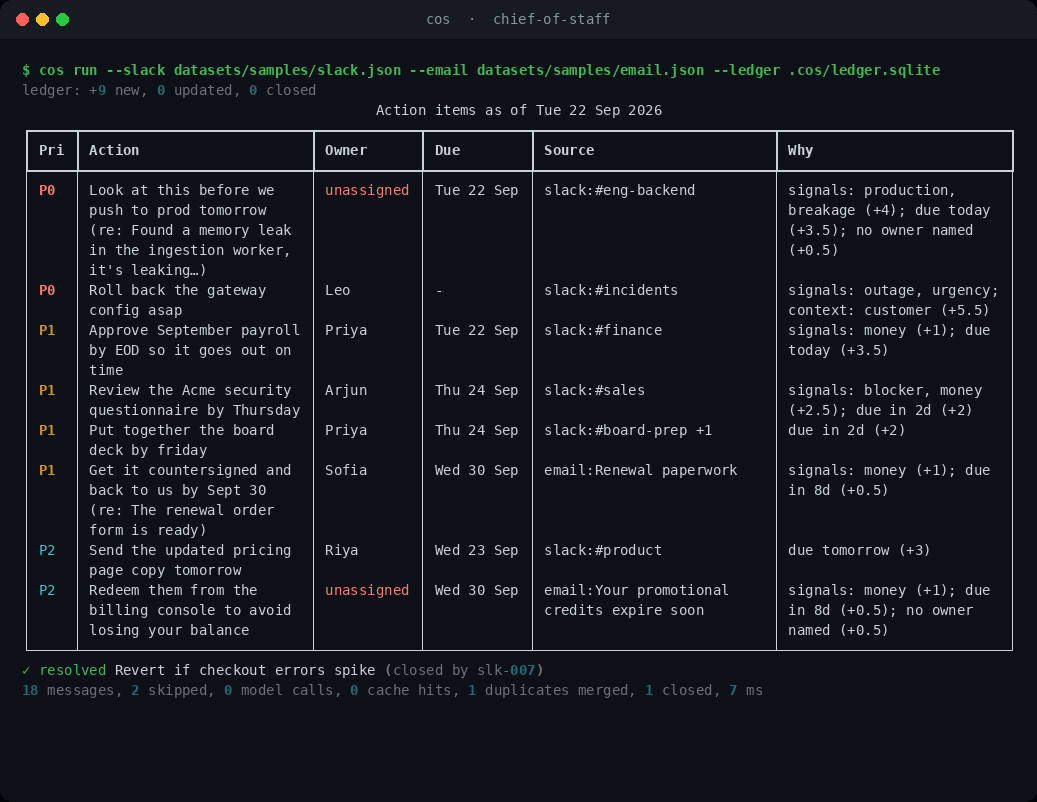
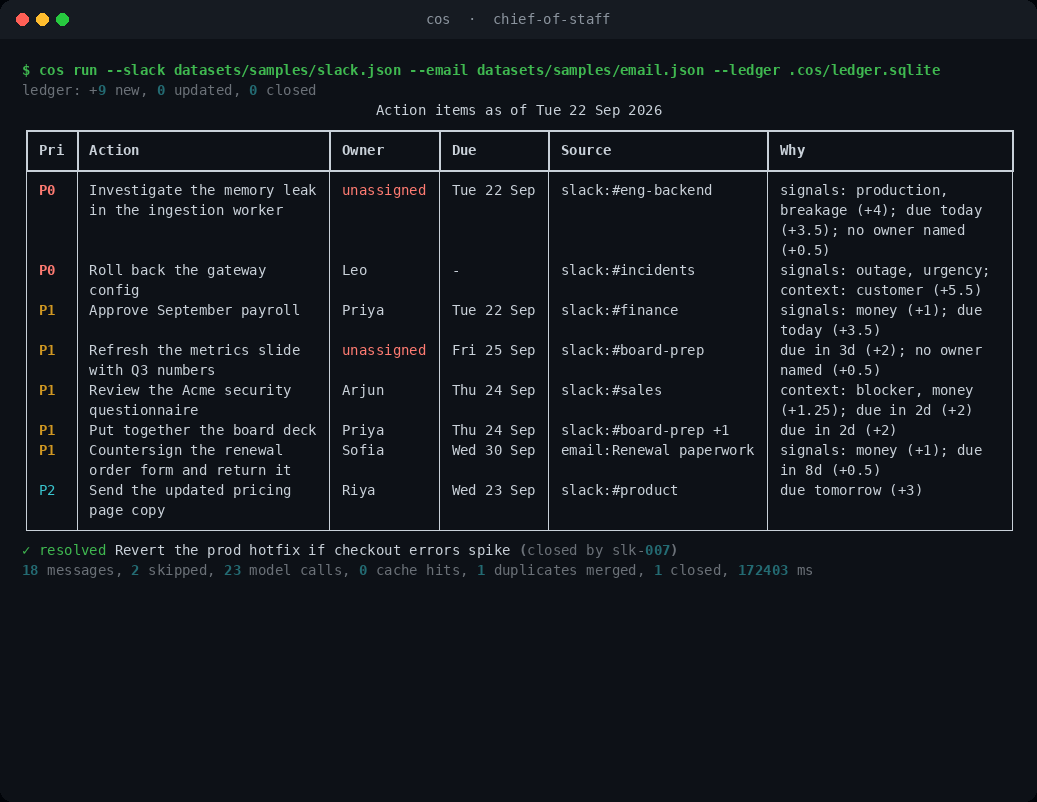
docs: link the live demo at the top of the README and refresh the demo assets
The GIF and screenshots are re-rendered from real runs of the current CLI
(python docs/render_assets.py).

diff --git a/README.md b/README.md
@@ -11,6 +11,8 @@
 ![Coverage](https://img.shields.io/badge/coverage-98%25-brightgreen)
 ![License](https://img.shields.io/badge/license-MIT-blue)
 
+**[Live demo](https://pavan-dangeti.github.io/Chief-of-Staff-AI/)**: the real output on a synthetic sample inbox, message by message.
+
 <img src="docs/images/demo.gif" alt="Terminal demo: cos run builds a prioritized digest, cos ledger show tracks items across runs, cos eval scores the extractor" width="900">
 
 </div>
@@ -50,7 +52,7 @@ source message. It tracks items across runs until a later message reports them d
 | Provider outage | Circuit breaker cuts time to fallback from **44.8 s to 2.2 s** | [`reports/production-run.md`](reports/production-run.md) |
 | Latency, 100 messages at 400 ms per call | **190 s → 3.1 s** cold, **0.16 s** from cache | [`reports/benchmark.md`](reports/benchmark.md) |
 | HTTP API, 32 concurrent clients | p50 **59 ms**, **500 req/s** from cache; zero errors | [`reports/production-run.md`](reports/production-run.md) |
-| Code quality | 311 tests, 98% line and branch coverage, `mypy --strict`, `ruff` | CI |
+| Code quality | 313 tests, 98% line and branch coverage, `mypy --strict`, `ruff` | CI |
 
 The Anthropic backend is implemented and contract-tested against the SDK, but it was **not
 evaluated**: no Anthropic API access was available for this project, so no Claude numbers are
@@ -337,7 +339,7 @@ src/chief_of_staff/
 └── cli.py · api.py      interfaces
 benchmarks/              latency benchmark, provider simulator, production-style run, latency timeline
 datasets/                labeled splits, labeling guidelines, demo inbox
-docs/                    README assets rendered from real CLI runs
+docs/                    design notes, pilot guide, demo site builder, assets rendered from real runs
 tests/                   unit, property-based, contract, integration and interface tests
 ```
 

diff --git a/CHANGELOG.md b/CHANGELOG.md
@@ -8,6 +8,9 @@ All notable changes to this project are documented here. The format follows
 
 ### Added
 
+- Public demo on GitHub Pages (`docs/build_site.py`, deployed by the Demo site workflow):
+  the sample inbox beside the digest the offline rules make from it, each message labelled with
+  what happened to it, the backend comparison table, and a copy of the pilot review page.
 - Real-user pilot kit: `cos pilot run` builds a self-contained review page from a participant's
   own Slack export, mbox or JSON (offline rules by default, the last 14 days); the page saves a
   label file with no message text; `cos pilot report` combines the files into precision, a
